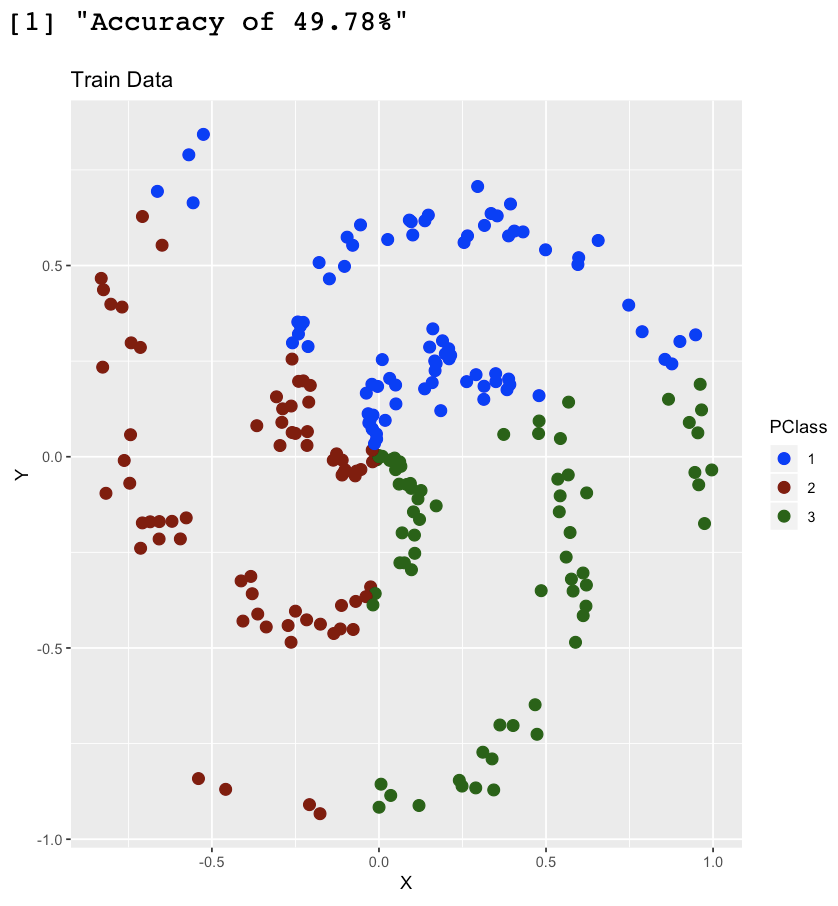
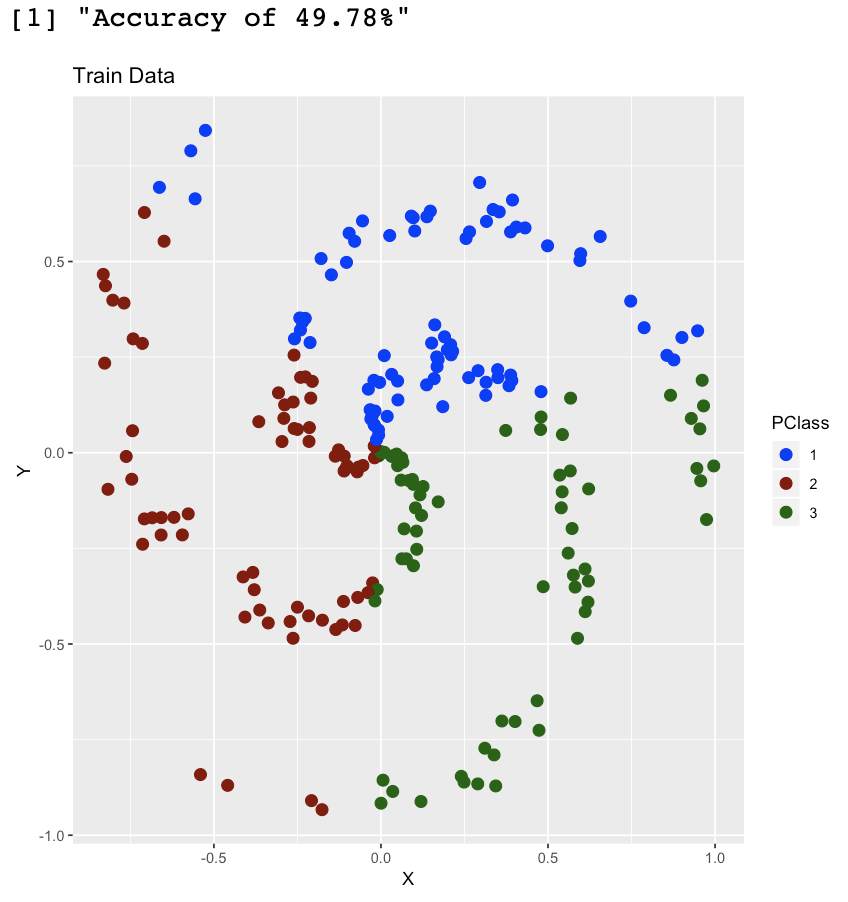
.

diff --git a/index.md b/index.md
@@ -276,7 +276,7 @@ ggplot() +
   xlab('X') + ylab('Y') + ggtitle('Train Data')
 ```
 
-<img src="images/plot4.png" width="259" height="422" />
+<img src="images/plot4.png" width="425" height="451" />
 
 
 
